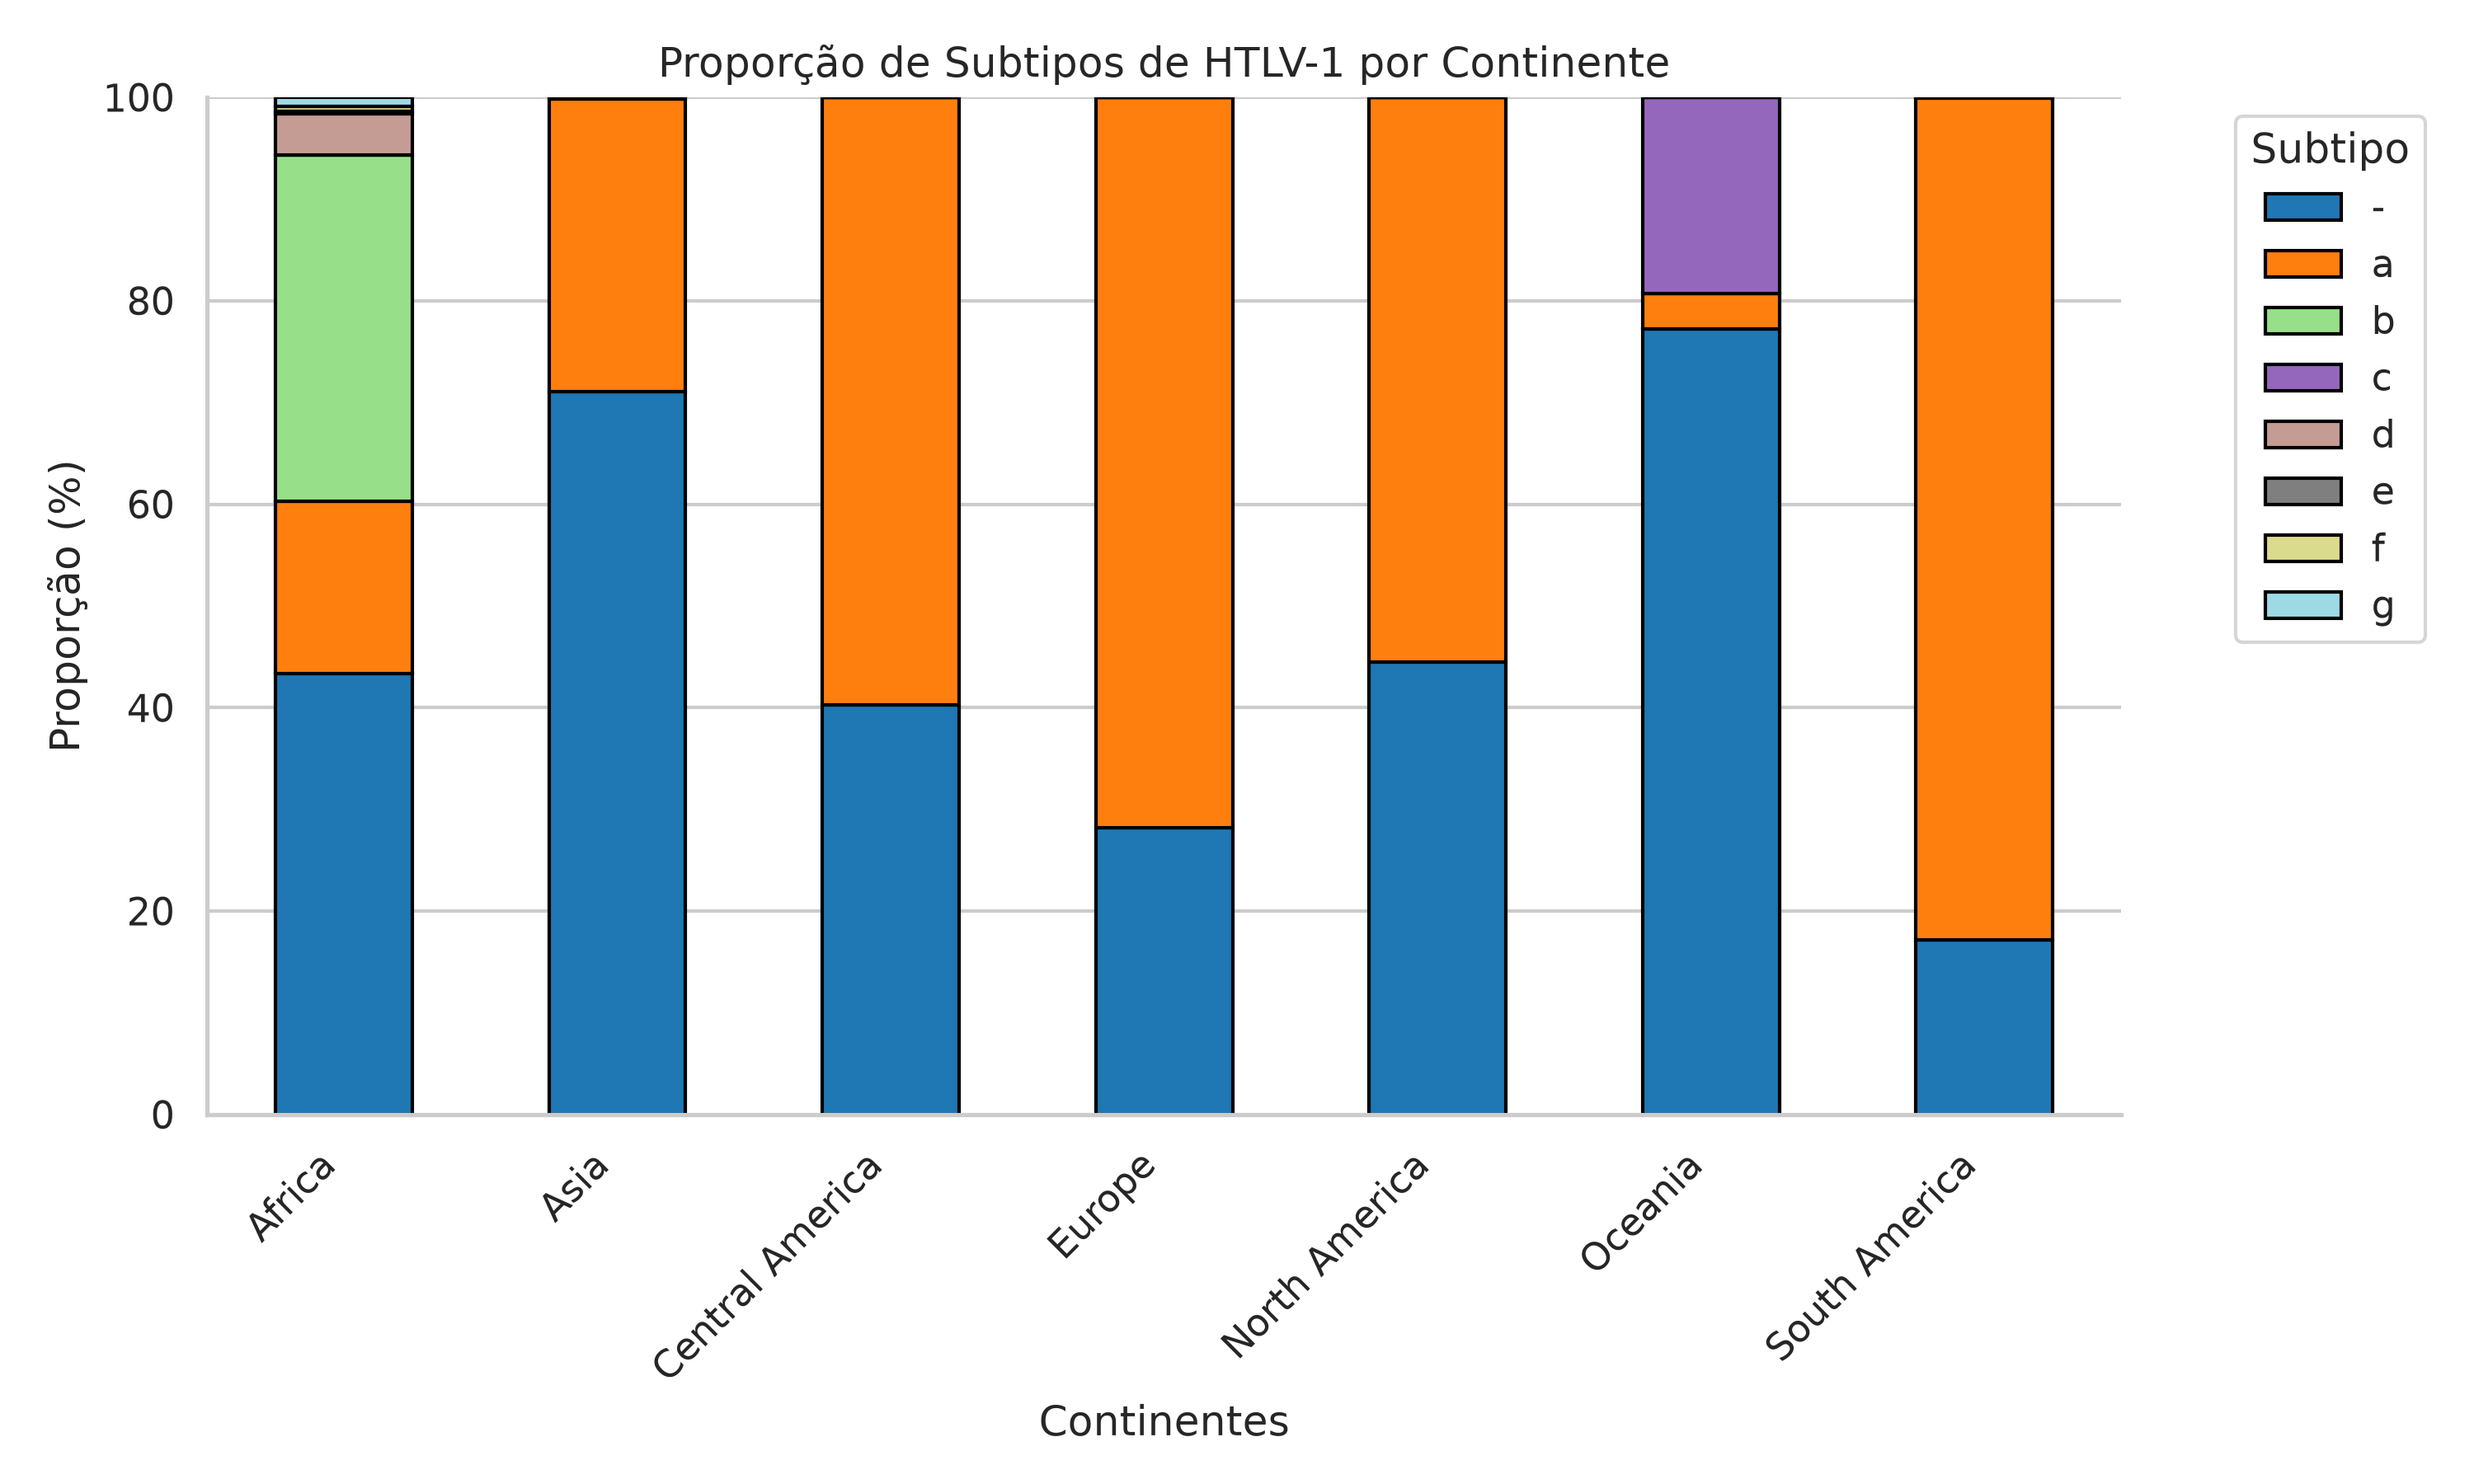
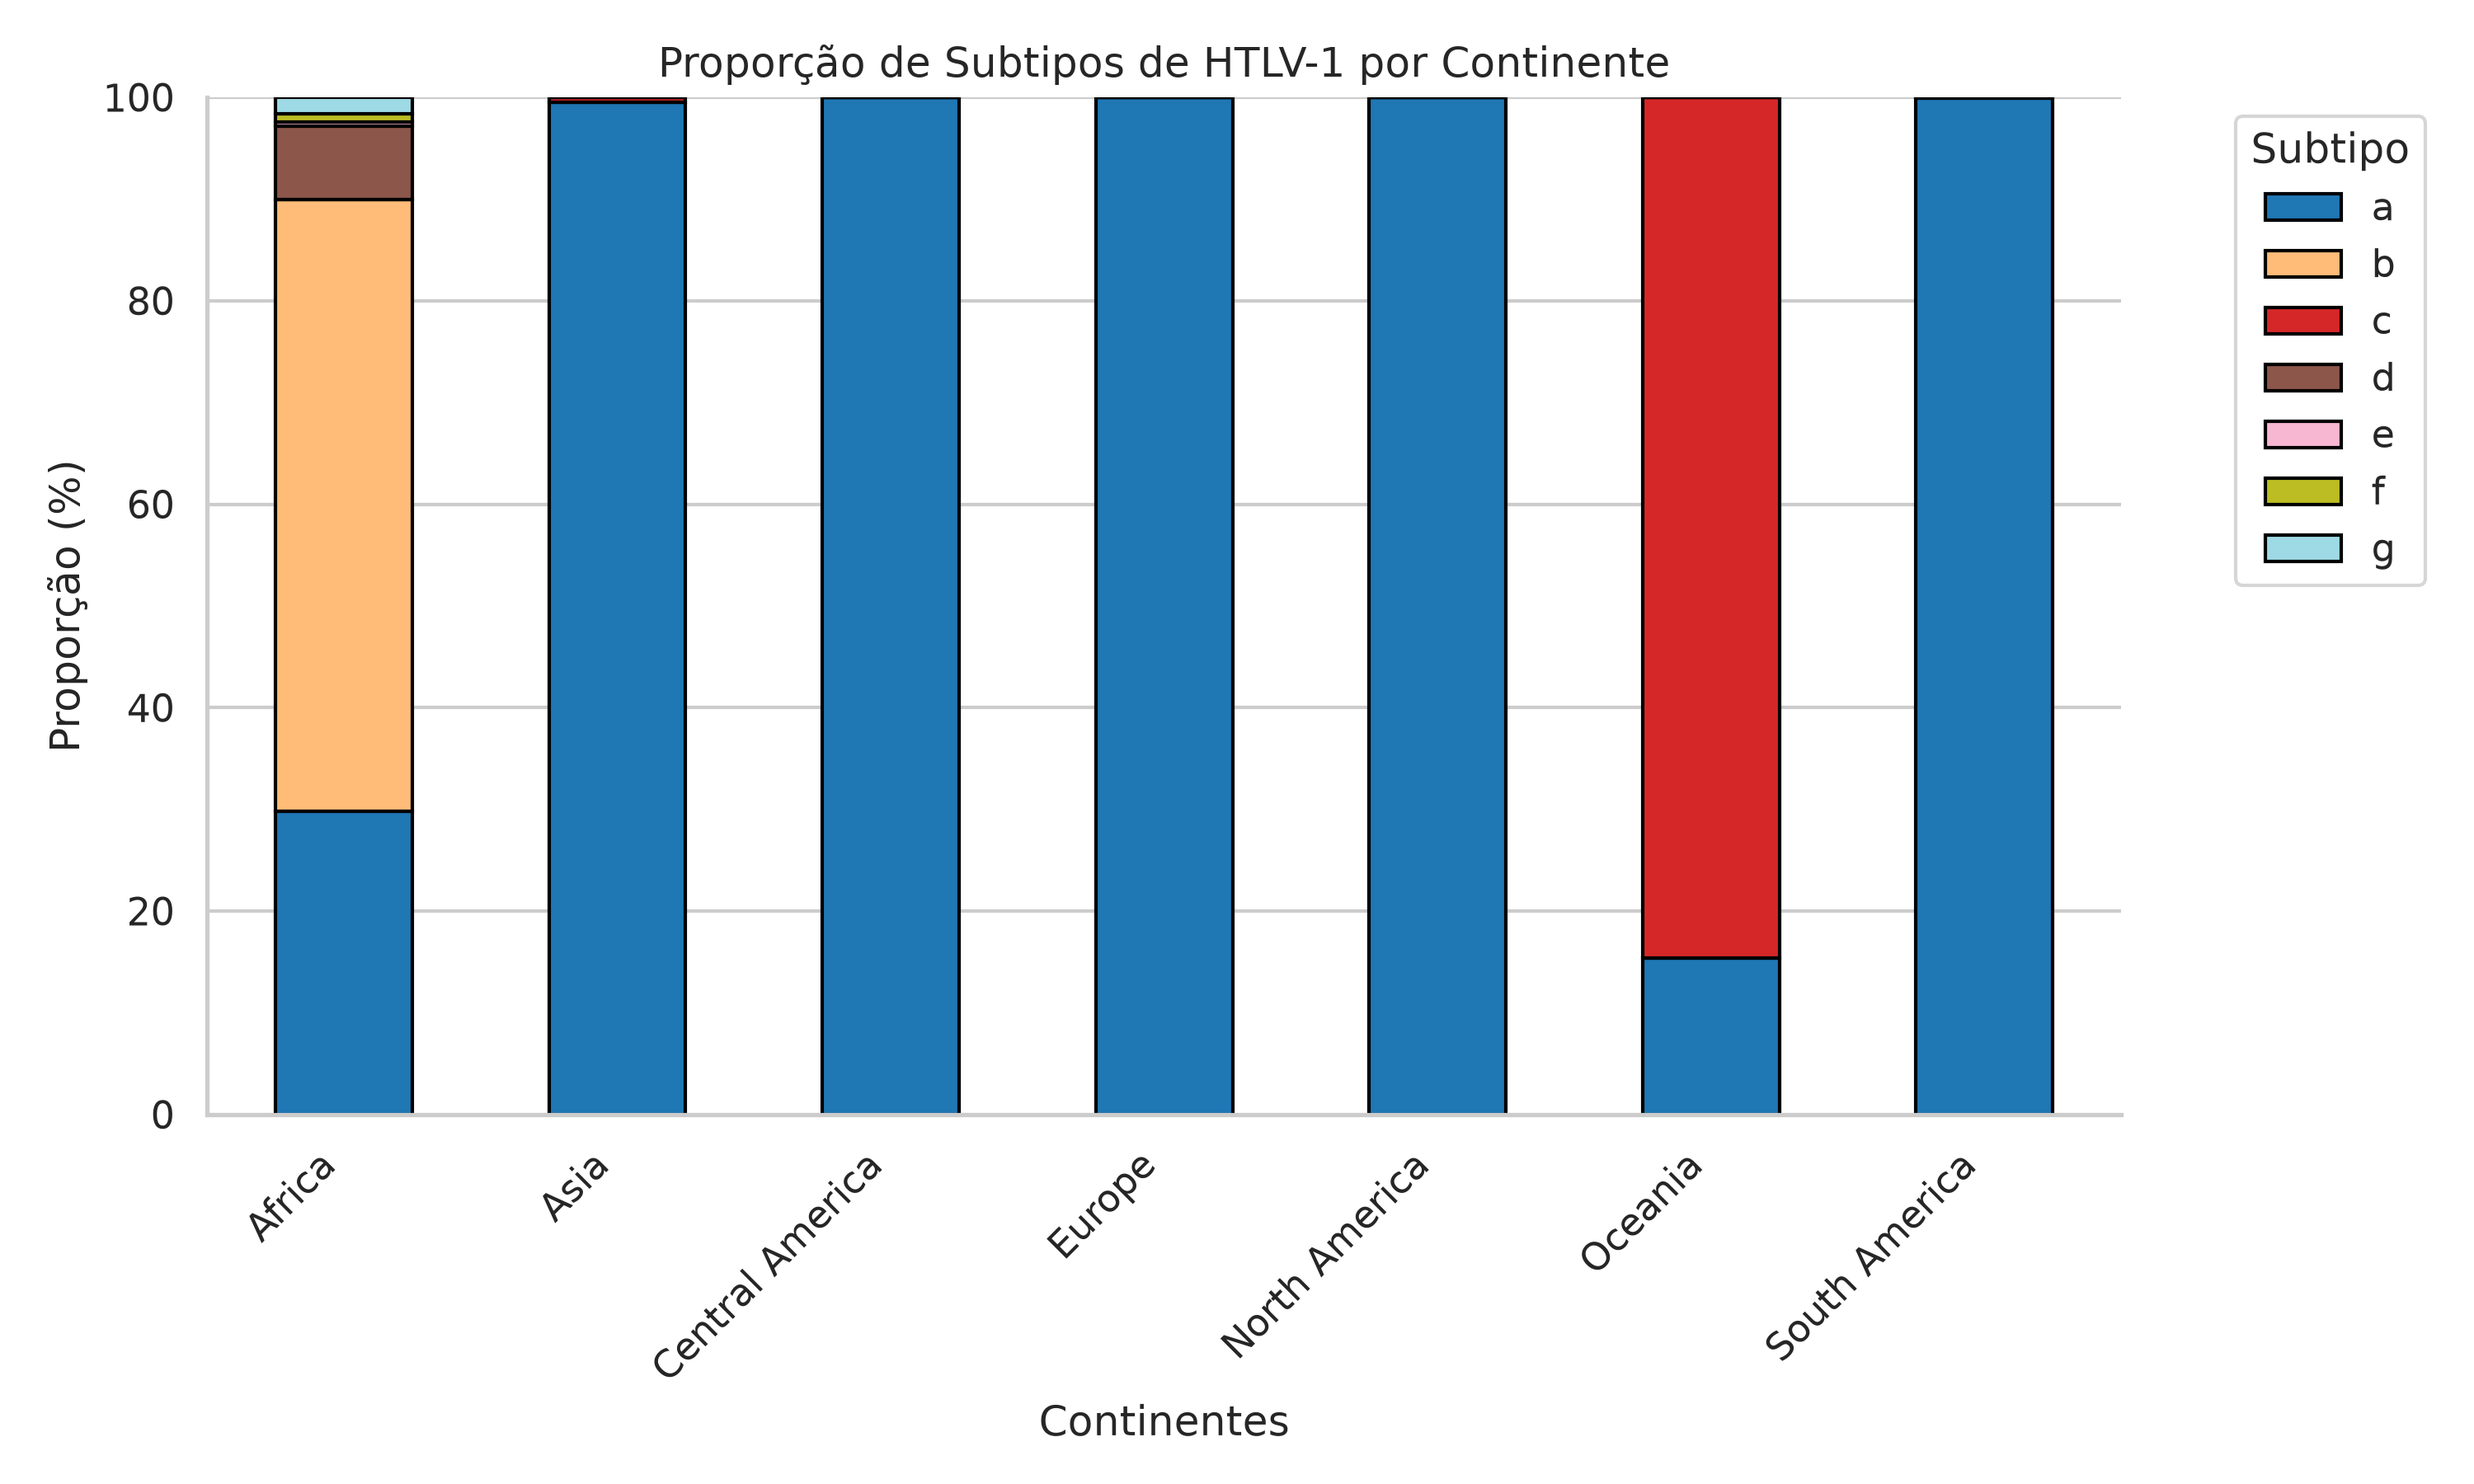
fix: remove categoria indefinida "-" do gráfico de subtipos

diff --git a/scripts/08_plot_subtypes.py b/scripts/08_plot_subtypes.py
@@ -13,7 +13,9 @@ output_plot = Path("results/figures/subtypes_by_continent.png")
 df = pd.read_csv(metadata_file, sep=";", on_bad_lines="skip")
 
 # limpeza dos dados => remove linhas onde Continent ou Subtype estejam ausentes ou com o "-"
-df_clean = df[(df["Continent"] != "-") & (df["Subtype"].notna())] 
+df_clean = df[(df["Continent"] != "-") & 
+              (df["Subtype"] != "-") &
+              (df["Subtype"].notna())] 
 
 # tabela cruzada (subtipos por continente)
 contagem = df_clean.groupby(["Continent","Subtype"]).size().unstack(fill_value=0)
